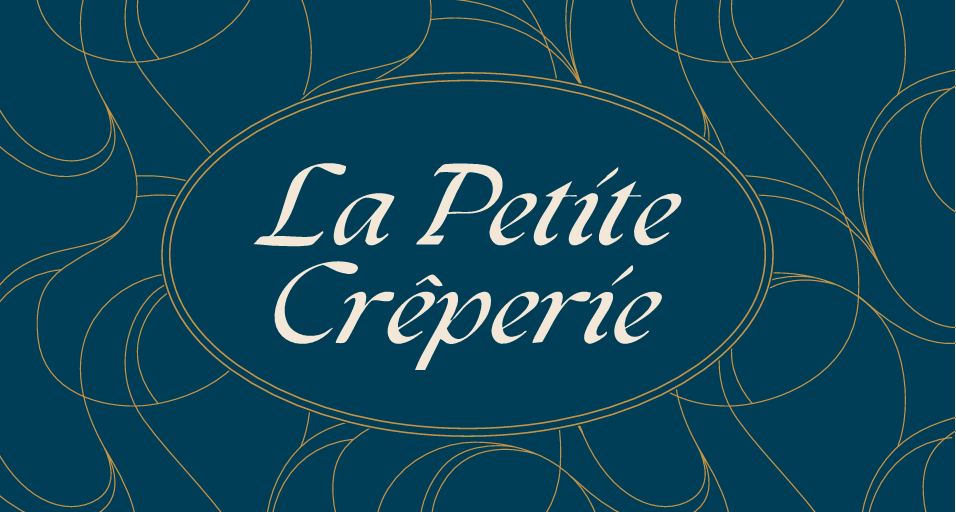
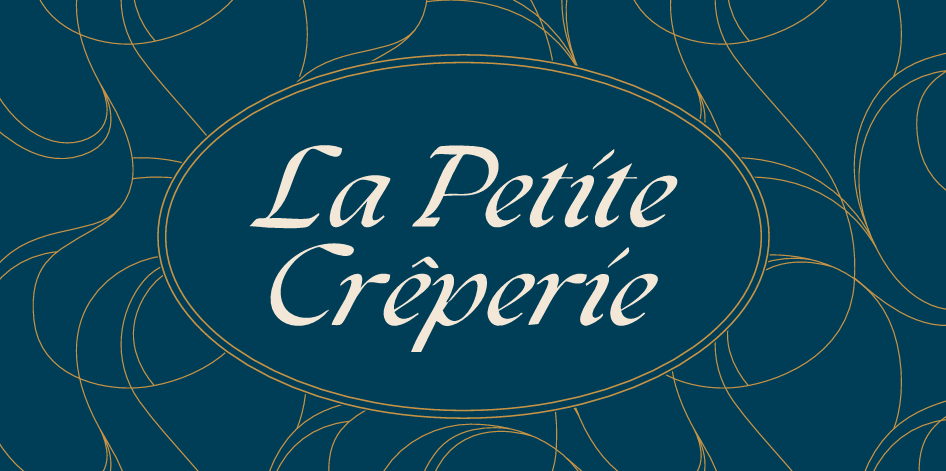
change colo

diff --git a/index.html b/index.html
@@ -9,9 +9,9 @@
   *, *::before, *::after { box-sizing: border-box; margin: 0; padding: 0; }
 
   :root {
-    --teal:        #0D4A5C;
-    --teal-dark:   #0A3A48;
-    --teal-deeper: #072E3A;
+    --teal:        #003d56;
+    --teal-dark:   #003d56;
+    --teal-deeper: #003d56;
     --cream:       #F2EAD8;
     --cream-dim:   rgba(242,234,216,0.85);
     --gold:        #C4A35A;
